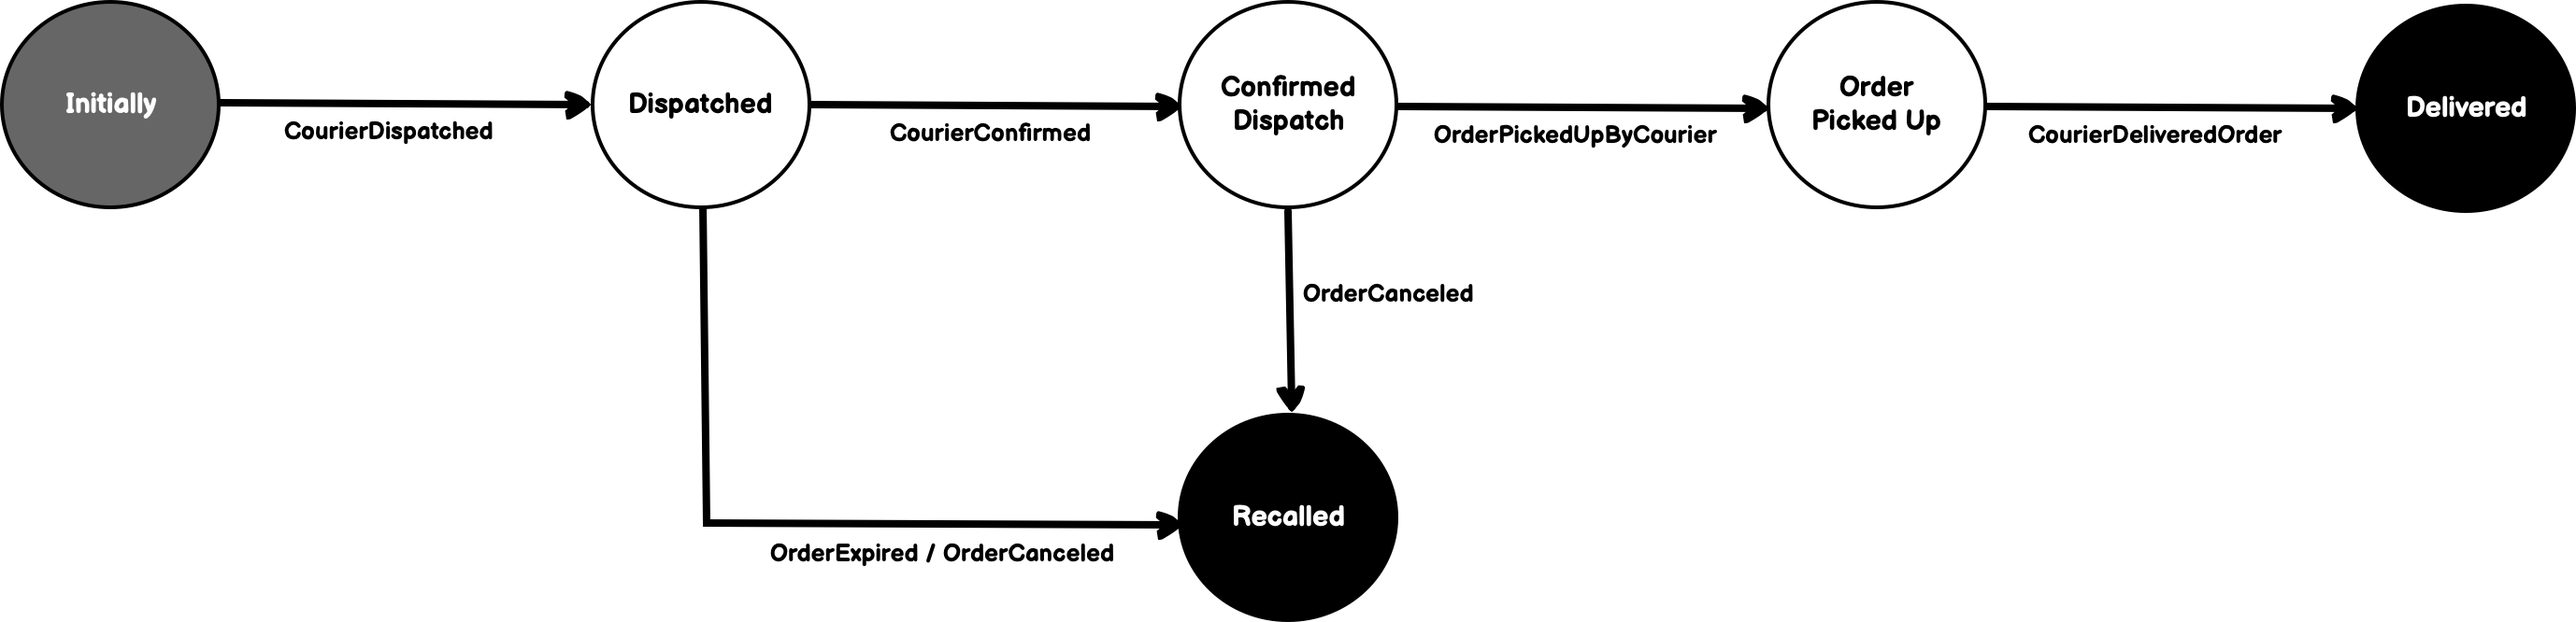
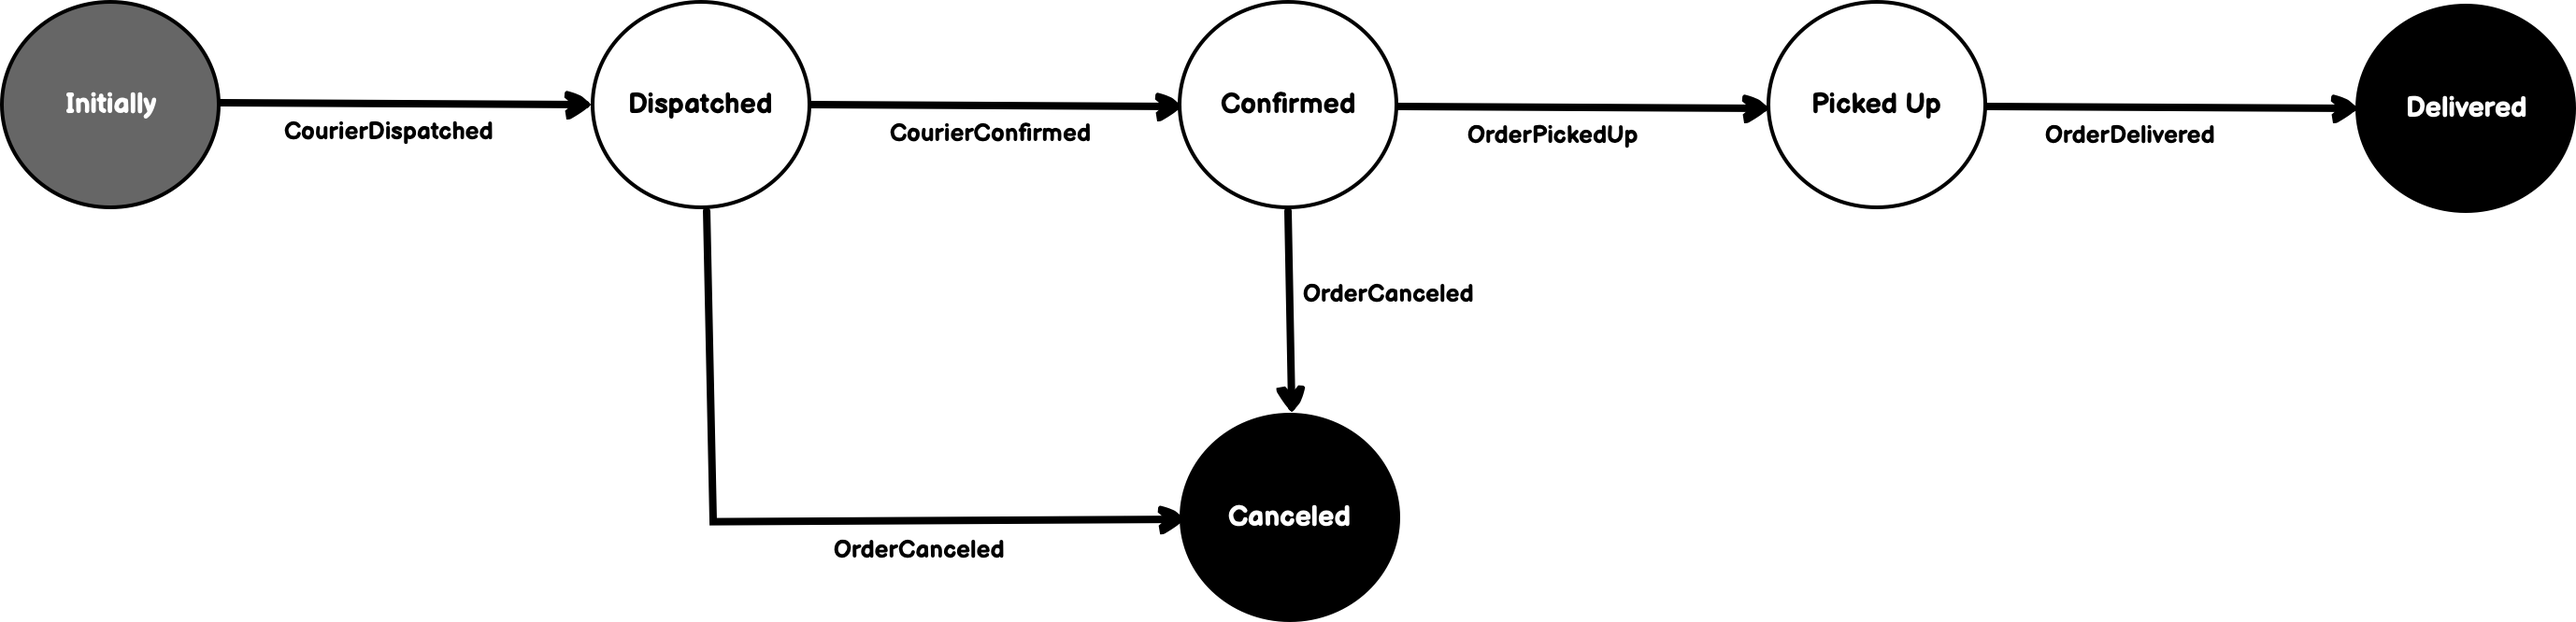
Added some code around courier state machine

diff --git a/src/Services.Core/CourierFinder.cs b/src/Services.Core/CourierFinder.cs
@@ -1,0 +1,54 @@
+namespace Services.Core
+{
+    using System.Threading.Tasks;
+    using Data.Core;
+    using Data.Core.Model;
+    using Microsoft.EntityFrameworkCore;
+    using Model;
+
+    public class CourierFinder :
+        ICourierFinder
+    {
+        readonly OrdersDbContext _db;
+
+        public CourierFinder(OrdersDbContext db)
+        {
+            _db = db;
+        }
+
+        public async Task<Result<Courier>> Find(Address address)
+        {
+            var target = await _db.Couriers.FirstOrDefaultAsync(x => x.City == address.City
+                && x.RegionId == address.RegionId
+                && x.IsAvailable);
+
+            if (target == null)
+                return new Result<Courier> {ChangeCount = 0, IsSuccessful = false};
+            
+            var courier = MapCourier(target);
+
+            target.IsAvailable = false;
+
+            _db.Update(target);
+
+            var changes = await _db.SaveChangesAsync();
+
+            return new Result<Courier> {ChangeCount = changes, Value = courier, IsSuccessful = true};
+        }
+
+        Courier MapCourier(CourierEntity courier) =>
+            new()
+            {
+                CourierId = courier.CourierId,
+                FirstName = courier.FirstName,
+                LastName = courier.LastName,
+                Address = new Address
+                {
+                    Street = courier.Street,
+                    City = courier.City,
+                    RegionId = courier.RegionId,
+                    ZipCode = courier.ZipCode
+                }
+            };
+    }
+}

diff --git a/src/CourierService.Core/StateMachines/Activities/OrderPickedUpActivity.cs b/src/CourierService.Core/StateMachines/Activities/OrderPickedUpActivity.cs
@@ -8,24 +8,24 @@ namespace CourierService.Core.StateMachines.Activities
     using Sagas;
     using Services.Core.Events;
 
-    public class OrderPickedUpByActivity :
+    public class OrderPickedUpActivity :
         Activity<CourierState, OrderPickedUp>
     {
         readonly ConsumeContext _context;
 
-        public OrderPickedUpByActivity(ConsumeContext context)
+        public OrderPickedUpActivity(ConsumeContext context)
         {
             _context = context;
         }
 
         public void Probe(ProbeContext context)
         {
-            throw new NotImplementedException();
+            context.CreateScope("");
         }
 
         public void Accept(StateMachineVisitor visitor)
         {
-            throw new NotImplementedException();
+            visitor.Visit(this);
         }
 
         public async Task Execute(BehaviorContext<CourierState, OrderPickedUp> context,
@@ -41,6 +41,11 @@ namespace CourierService.Core.StateMachines.Activities
             });
         }
 
-        public async Task Faulted<TException>(BehaviorExceptionContext<CourierState, OrderPickedUp, TException> context, Behavior<CourierState, OrderPickedUp> next) where TException : Exception => throw new NotImplementedException();
+        public async Task Faulted<TException>(BehaviorExceptionContext<CourierState, OrderPickedUp, TException> context,
+            Behavior<CourierState, OrderPickedUp> next)
+            where TException : Exception
+        {
+            await next.Faulted(context);
+        }
     }
 }

diff --git a/src/CourierService.Core/Consumers/CourierConfirmationConsumer.cs b/src/CourierService.Core/Consumers/CourierConfirmationConsumer.cs
@@ -2,19 +2,40 @@ namespace CourierService.Core.Consumers
 {
     using System.Threading.Tasks;
     using MassTransit;
+    using Services.Core;
     using Services.Core.Events;
+    using Services.Core.Model;
 
     public class CourierConfirmationConsumer :
         IConsumer<ConfirmCourier>
     {
+        readonly ICourierFinder _finder;
+
+        public CourierConfirmationConsumer(ICourierFinder finder)
+        {
+            _finder = finder;
+        }
+
         public async Task Consume(ConsumeContext<ConfirmCourier> context)
         {
-            await context.Publish<CourierConfirmed>(new
+            var result = await _finder.Find(new Address
             {
-                context.Message.OrderId,
-                context.Message.CustomerId,
-                context.Message.RestaurantId
+                Street = context.Message.Street,
+                City = context.Message.City,
+                RegionId = context.Message.RegionId,
+                ZipCode = context.Message.ZipCode
             });
+            
+            if (result.IsSuccessful)
+            {
+                await context.Publish<CourierConfirmed>(new
+                {
+                    CourierId = result.Value,
+                    context.Message.OrderId,
+                    context.Message.CustomerId,
+                    context.Message.RestaurantId
+                });
+            }
         }
     }
 }

diff --git a/src/Services.Core.Tests/CourierFinderTests.cs b/src/Services.Core.Tests/CourierFinderTests.cs
@@ -1,0 +1,42 @@
+namespace Services.Core.Tests
+{
+    using System;
+    using System.Threading.Tasks;
+    using Data.Core;
+    using Microsoft.EntityFrameworkCore;
+    using Microsoft.Extensions.Configuration;
+    using Microsoft.Extensions.DependencyInjection;
+    using Model;
+    using NUnit.Framework;
+
+    [TestFixture]
+    public class CourierFinderTests
+    {
+        [Test]
+        public async Task Test()
+        {
+            IConfiguration configuration = new ConfigurationBuilder()
+                .AddJsonFile("appsettings.json", false)
+                .Build();
+            var services = new ServiceCollection();
+
+            services.AddSingleton<ICourierFinder, CourierFinder>();
+            services.AddDbContext<OrdersDbContext>(x =>
+                x.UseNpgsql(configuration.GetConnectionString("OrdersConnection")));
+
+            var provider = services.BuildServiceProvider();
+
+            var finder = provider.GetService<ICourierFinder>();
+
+            var courier = await finder.Find(new Address
+            {
+                Street = "99 California St.",
+                City = "Chicago",
+                RegionId = 3,
+                ZipCode = "69843"
+            });
+            
+            Assert.AreEqual(Guid.Parse("11220000-4800-acde-1336-08d8ab8e34e9"), courier.Value.CourierId);
+        }
+    }
+}

diff --git a/src/CourierService.Core/StateMachines/Activities/OrderExpiredActivity.cs b/src/CourierService.Core/StateMachines/Activities/OrderExpiredActivity.cs
@@ -20,17 +20,19 @@ namespace CourierService.Core.StateMachines.Activities
 
         public void Probe(ProbeContext context)
         {
-            throw new NotImplementedException();
+            context.CreateScope("");
         }
 
         public void Accept(StateMachineVisitor visitor)
         {
-            throw new NotImplementedException();
+            visitor.Visit(this);
         }
 
         public async Task Execute(BehaviorContext<CourierState, OrderExpired> context,
             Behavior<CourierState, OrderExpired> next)
         {
+            context.Instance.Timestamp = DateTime.Now;
+
             await _context.Publish<CourierCanceled>(new
             {
                 CourierId = context.Instance.OrderId,
@@ -41,6 +43,11 @@ namespace CourierService.Core.StateMachines.Activities
             });
         }
 
-        public async Task Faulted<TException>(BehaviorExceptionContext<CourierState, OrderExpired, TException> context, Behavior<CourierState, OrderExpired> next) where TException : Exception => throw new NotImplementedException();
+        public async Task Faulted<TException>(BehaviorExceptionContext<CourierState, OrderExpired, TException> context,
+            Behavior<CourierState, OrderExpired> next)
+            where TException : Exception
+        {
+            await next.Faulted(context);
+        }
     }
 }

diff --git a/src/CourierService.Core/StateMachines/Activities/OrderCanceledActivity.cs b/src/CourierService.Core/StateMachines/Activities/OrderCanceledActivity.cs
@@ -20,17 +20,19 @@ namespace CourierService.Core.StateMachines.Activities
 
         public void Probe(ProbeContext context)
         {
-            throw new NotImplementedException();
+            context.CreateScope("");
         }
 
         public void Accept(StateMachineVisitor visitor)
         {
-            throw new NotImplementedException();
+            visitor.Visit(this);
         }
 
         public async Task Execute(BehaviorContext<CourierState, OrderCanceled> context,
             Behavior<CourierState, OrderCanceled> next)
         {
+            context.Instance.Timestamp = DateTime.Now;
+
             await _context.Publish<CourierCanceled>(new
             {
                 context.Instance.CourierId,
@@ -40,6 +42,11 @@ namespace CourierService.Core.StateMachines.Activities
             });
         }
 
-        public async Task Faulted<TException>(BehaviorExceptionContext<CourierState, OrderCanceled, TException> context, Behavior<CourierState, OrderCanceled> next) where TException : Exception => throw new NotImplementedException();
+        public async Task Faulted<TException>(BehaviorExceptionContext<CourierState, OrderCanceled, TException> context,
+            Behavior<CourierState, OrderCanceled> next)
+            where TException : Exception
+        {
+            await next.Faulted(context);
+        }
     }
 }

diff --git a/src/CourierService.Core/StateMachines/Activities/OrderDeliveryActivity.cs b/src/CourierService.Core/StateMachines/Activities/OrderDeliveryActivity.cs
@@ -12,12 +12,12 @@ namespace CourierService.Core.StateMachines.Activities
     {
         public void Probe(ProbeContext context)
         {
-            throw new NotImplementedException();
+            context.CreateScope("");
         }
 
         public void Accept(StateMachineVisitor visitor)
         {
-            throw new NotImplementedException();
+            visitor.Visit(this);
         }
 
         public async Task Execute(BehaviorContext<CourierState, OrderDelivered> context,
@@ -26,6 +26,12 @@ namespace CourierService.Core.StateMachines.Activities
             context.Instance.Timestamp = DateTime.Now;
         }
 
-        public async Task Faulted<TException>(BehaviorExceptionContext<CourierState, OrderDelivered, TException> context, Behavior<CourierState, OrderDelivered> next) where TException : Exception => throw new NotImplementedException();
+        public async Task Faulted<TException>(
+            BehaviorExceptionContext<CourierState, OrderDelivered, TException> context,
+            Behavior<CourierState, OrderDelivered> next)
+            where TException : Exception
+        {
+            await next.Faulted(context);
+        }
     }
 }

diff --git a/src/Services.Core/OrderManager.cs b/src/Services.Core/OrderManager.cs
@@ -45,8 +45,6 @@ namespace Services.Core
                     {
                         yield return new Result
                         {
-                            OrderItem = null,
-                            Shelf = null,
                             OperationPerformed = OperationType.ExpiredOrder
                         };
                     }
@@ -76,7 +74,7 @@ namespace Services.Core
 
             for (int i = 0; i < data.Items.Length; i++)
             {
-                var entityEntry = await _db.OrderItems.AddAsync(new OrderItem
+                var entityEntry = await _db.OrderItems.AddAsync(new OrderItemEntity
                 {
                     OrderItemId = NewId.NextGuid(),
                     OrderId = data.OrderId,
@@ -104,7 +102,7 @@ namespace Services.Core
 
             if (order == null)
             {
-                var result = await _db.OrderItems.AddAsync(new OrderItem
+                var result = await _db.OrderItems.AddAsync(new OrderItemEntity
                 {
                     OrderItemId = NewId.NextGuid(),
                     OrderId = data.OrderId,

diff --git a/src/Services.Core/Result.cs b/src/Services.Core/Result.cs
@@ -10,9 +10,23 @@ namespace Services.Core
             Timestamp = DateTime.Now;
         }
 
-        public PreparedOrderItem OrderItem { get; init; }
+        public int ChangeCount { get; init; }
         
-        public Shelf Shelf { get; init; }
+        public OperationType OperationPerformed { get; init; }
+        
+        public bool IsSuccessful { get; init; }
+        
+        public DateTime Timestamp { get; }
+    }
+
+    public record Result<T>
+    {
+        public Result()
+        {
+            Timestamp = DateTime.Now;
+        }
+
+        public T Value { get; init; }
         
         public int ChangeCount { get; init; }
         

diff --git a/src/CourierService/Program.cs b/src/CourierService/Program.cs
@@ -47,6 +47,9 @@
                     services.AddMassTransit(x =>
                     {
                         x.AddConsumer<CourierDispatchConsumer>();
+                        x.AddConsumer<CourierConfirmationConsumer>();
+                        x.AddConsumer<OrderDeliveryConsumer>();
+                        x.AddConsumer<PickUpOrderConsumer>();
                         
                         x.SetKebabCaseEndpointNameFormatter();
                         

diff --git a/src/CourierService.Core/StateMachines/CourierStateMachine.cs b/src/CourierService.Core/StateMachines/CourierStateMachine.cs
@@ -31,7 +31,7 @@ namespace CourierService.Core.StateMachines
 
             During(Confirmed,
                 When(OrderPickedUp)
-                    .Activity(x => x.OfType<OrderPickedUpByActivity>())
+                    .Activity(x => x.OfType<OrderPickedUpActivity>())
                     .TransitionTo(PickedUp),
                 When(OrderCanceled)
                     .Activity(x => x.OfType<OrderCanceledActivity>())

diff --git a/src/Services.Core/Events/ConfirmCourier.cs b/src/Services.Core/Events/ConfirmCourier.cs
@@ -19,6 +19,14 @@ namespace Services.Core.Events
         
         public Guid RestaurantId { get; init; }
         
+        public string Street { get; init; }
+        
+        public string City { get; init; }
+        
+        public int RegionId { get; init; }
+        
+        public string ZipCode { get; init; }
+        
         public DateTime Timestamp { get; }
     }
 }
